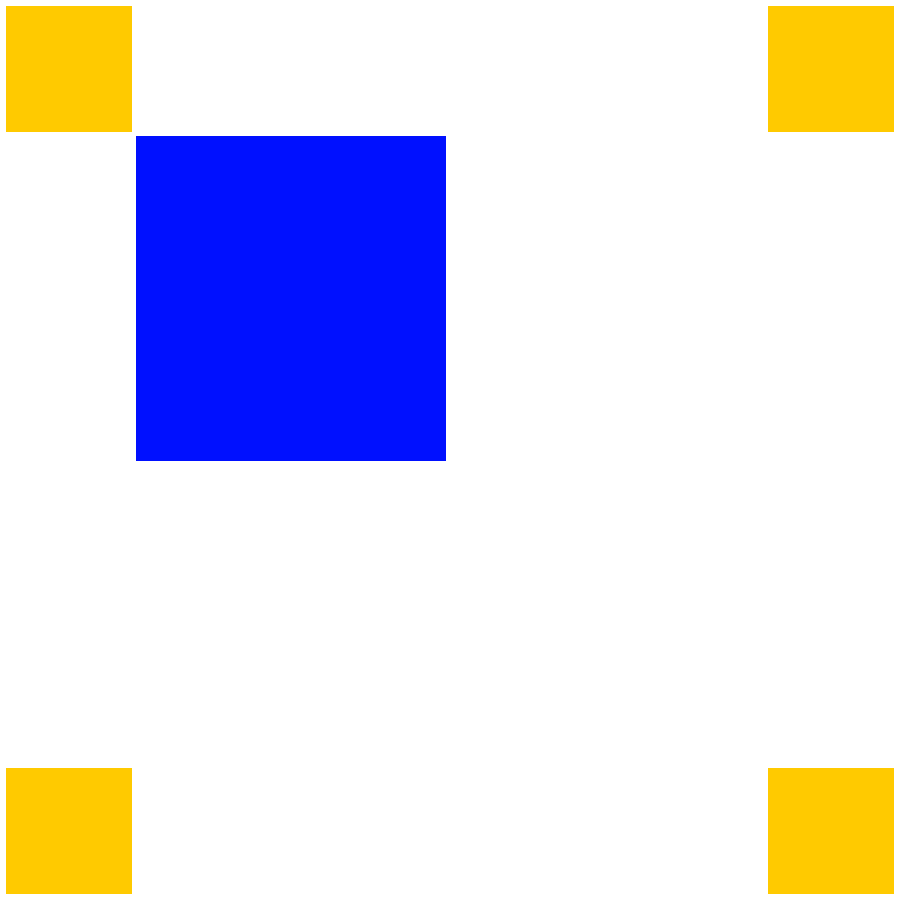
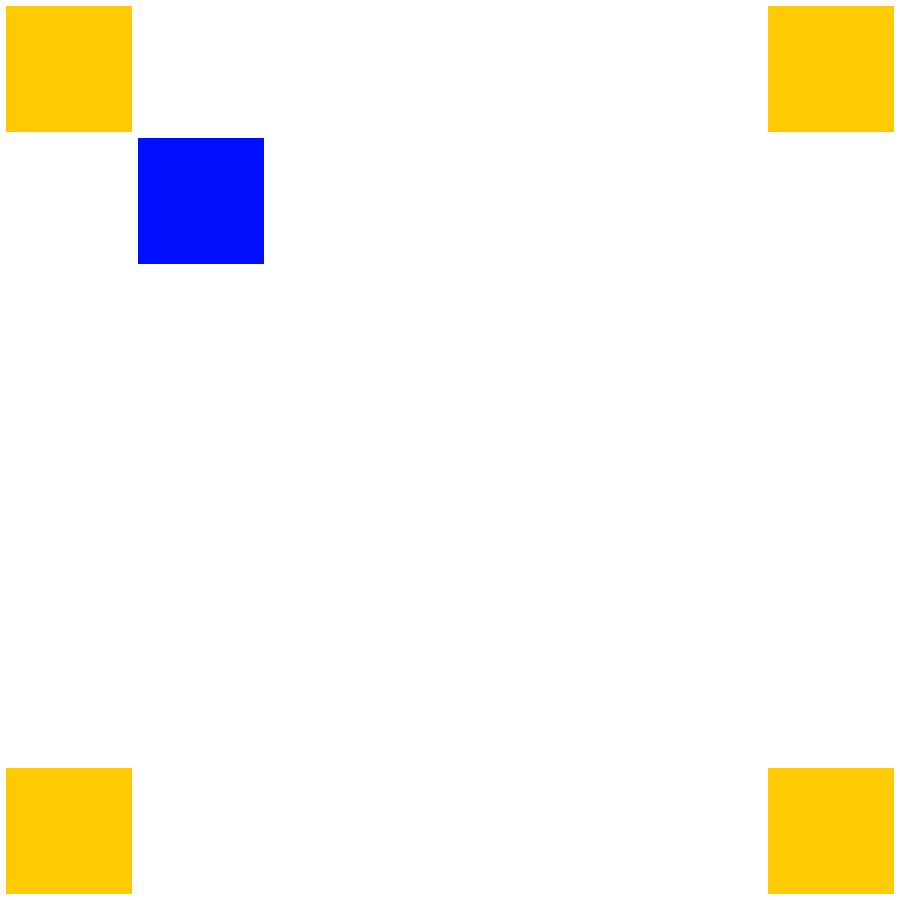
Amélioration de la détection des balises

Changed region(s): [[0.1244, 0.1244, 0.4978, 0.5289]]

diff --git a/driftator/driftator/ia/position_balise.py b/driftator/driftator/ia/position_balise.py
@@ -165,26 +165,29 @@ def getBalises(img):
     img = np.array(img)[:,:,0]
 
     #On cherche les carrés jaunes
-    j = np.where((img > 30) & (img < 85))
+    j = np.where((img > 30) & (img < 60))
     
     #Recherche des coins
     bs = 4 #Taille des intervalles pour l'histogramme
 
+    
     hist = np.histogram(j[0], bins = [b * bs for b in range(int(width/bs))])[0] #On fait l'histogramme en x
-    x = [e * bs + int(bs/2) for e in np.where(hist != 0)][0]
-    x = [x[i] for i in range(len(x)) if i == 0 or (i > 0 and abs(x[i-1] - x[i]) > bs)] #on fusionne les valeures doubles
-
-    hist = np.histogram(j[1], bins = [b * bs for b in range(int(height/bs))])[0] #On fait l'histogramme en y
-    y = [e * bs + int(bs/2) for e in np.where(hist != 0)][0]
-    y = [y[i] for i in range(len(y)) if i == 0 or (i > 0 and abs(y[i-1] - y[i]) > bs)] #on fusionne les valeures doubles
-
-    if len(x) < 2 or len(y) < 2:
-        #Aucune balise trouvée
+    x = [e * bs + bs//2 for e in np.sort(np.argsort(hist)[-2:])] if np.any(hist) else None
+    if x is None or len(x) < 2 or abs(x[0] - x[1]) < 2 * bs:
         return None
+    
+    hist = np.histogram(j[1], bins = [b * bs for b in range(int(height/bs))])[0] #On fait l'histogramme en y
+    y = [e * bs + bs//2 for e in np.sort(np.argsort(hist)[-2:])] if np.any(hist) else None
+    if y is None or len(y) < 2 or abs(y[0] - y[1]) < 2 * bs:
+        return None
+
 
     t = img[x[0]:x[1], y[0]:y[1]] #On ne retient que la partie de l'image qui correspond à la balise
 
     b = np.where((t > 150) & (t < 270)) #On récupère les coordonnées des points bleus
+
+    if len(b[0]) == 0:
+        return None
 
     y_coord, x_coord = np.mean(b[0]/len(t)), np.mean(b[1]/len(t[0])) #On obtient les coordonnées moyennes en x/y
 
